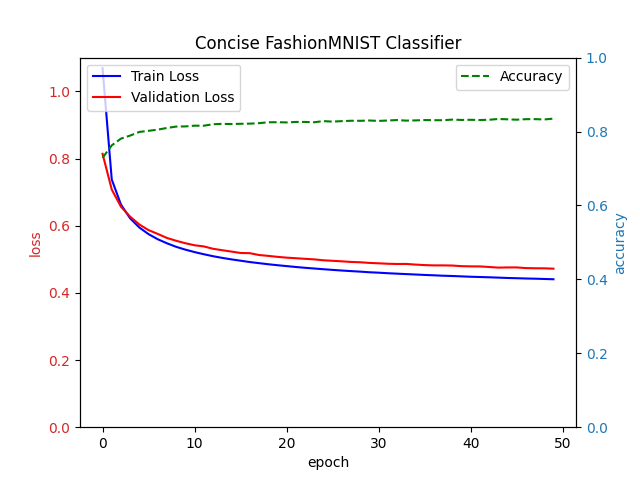
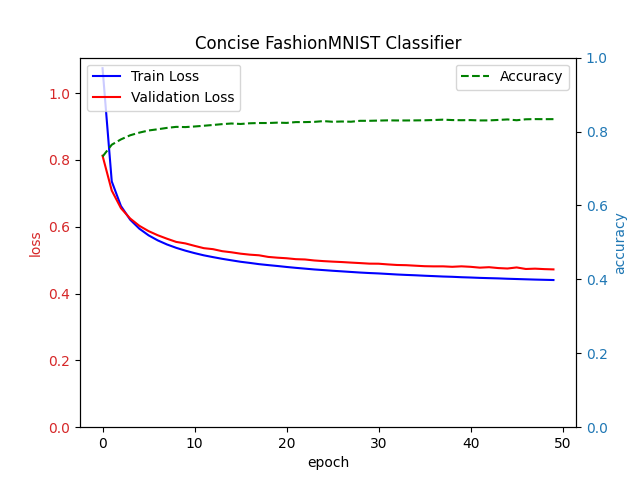
[bugfix - ch4] Correct loss calculation in mannual grad image classifier.

diff --git a/chapter-4_linear-neural-networks-for-classification/manual_grad_image_classifier/manual_grad_image_classifier.py b/chapter-4_linear-neural-networks-for-classification/manual_grad_image_classifier/manual_grad_image_classifier.py
@@ -145,26 +145,24 @@ class ManualGradClassifierModel(nn.Module):
         """
         Forward pass of the model.
 
-        Returns the softmax of shape (num_rows, num_classes).
+        Returns unnormalized logits instead of the softmax results.
         """
-        self._logits = X @ self._weights + self._bias
-        return nn.functional.softmax(self._logits, dim=1)
+        return X @ self._weights + self._bias
 
     def backward(
         self,
         X: torch.Tensor,
         y: torch.Tensor,
+        y_logits_pred: torch.Tensor,
     ) -> None:
-        assert self._logits is not None, \
-            "No logits to backpropagate. Call forward() first."
-        assert self._logits.shape == y.shape, \
-            f"Shapes mismatch between logits({self._logits.shape}) and y({y.shape})."
+        assert y_logits_pred.shape == y.shape, \
+            f"Shapes mismatch between logits({y_logits_pred.shape}) and y({y.shape})."
 
         #
         # Shape of cross_entropy_grad
         #   = num_rows * num_classes
         #
-        cross_entropy_grad = self._logits - y
+        cross_entropy_grad = y_logits_pred - y
         batch_size = X.shape[0]
 
         #
@@ -210,10 +208,10 @@ class Trainer(TransformMixin):
             X_flatten = self.flatten(X)
             y_one_hot = self.one_hot(y)
 
-            y_pred = self._model(X_flatten)
-            self._model.backward(X_flatten, y_one_hot)
+            y_logits_pred = self._model(X_flatten)
+            self._model.backward(X_flatten, y_one_hot, y_logits_pred)
 
-            loss += self._loss_measurer(y_pred, y_one_hot)
+            loss += self._loss_measurer(y_logits_pred, y_one_hot)
             num_batches += 1
 
         return loss / num_batches
@@ -256,7 +254,7 @@ class Samples:
         new = None
         old = getattr(self, attr_name, self._DEFAULT_TENSOR)
         assert isinstance(old, torch.Tensor), \
-            f"invalid attribute type (expected 'torch.Tensor', got {type(old)})"
+            f"Invalid attribute type (expected 'torch.Tensor', got {type(old)})"
 
         if len(old) >= self._max_count:
             return
@@ -301,12 +299,12 @@ class Evaluator(TransformMixin):
             X_flatten = self.flatten(X)
             y_one_hot = self.one_hot(y_indices)
 
-            y_pred = self._model(X_flatten)
+            y_logits_pred = self._model(X_flatten)
 
-            loss += self._loss_measurer(y_pred, y_one_hot)
+            loss += self._loss_measurer(y_logits_pred, y_one_hot)
             num_batches += 1
 
-            y_pred_indices = self.index(y_pred)
+            y_pred_indices = self.index(y_logits_pred)
             correct += (y_pred_indices == y_indices).sum().item()
             total += len(y_indices)
 
@@ -429,8 +427,8 @@ def main(
 
     logger.info("Done!")
     # Final output:
-    # epoch #199, train_loss = 2.2297.., evaluate_loss = 2.2308..., accuracy = 0.7887
+    # epoch #49, train_loss = 1.791, evaluate_loss = 1.795, accuracy = 0.809
 
 
 if __name__ == "__main__":
-    main()
+    main(False)

diff --git a/chapter-4_linear-neural-networks-for-classification/concise_image_classifier/concise_image_classifier.py b/chapter-4_linear-neural-networks-for-classification/concise_image_classifier/concise_image_classifier.py
@@ -143,6 +143,11 @@ class ConciseClassifierModel(nn.Module):
         self,
         X: torch.Tensor
     ) -> torch.Tensor:
+        """
+        Forward pass of the model.
+
+        Returns unnormalized logits instead of the softmax results.
+        """
         return self._net(X)
 
 
@@ -390,7 +395,6 @@ def main(
     num_classes = len(dataset.labels)
     model = ConciseClassifierModel(num_classes).to(device)
 
-    # loss_measurer = nn.CrossEntropyLoss()
     optimizer = torch.optim.SGD(model.parameters(), lr=learning_rate)
     trainer = Trainer(model, dataset, optimizer)
     evaluator = Evaluator(model, dataset, num_samples)
@@ -408,7 +412,7 @@ def main(
 
     logger.info("Done!")
     # Final output:
-    # epoch #149, train_loss = 2.23049, evaluate_loss = 2.232175, accuracy = 0.77
+    # epoch #49, train_loss = 0.4404, evaluate_loss = 0.4723, accuracy = 0.833
 
 
 if __name__ == "__main__":
